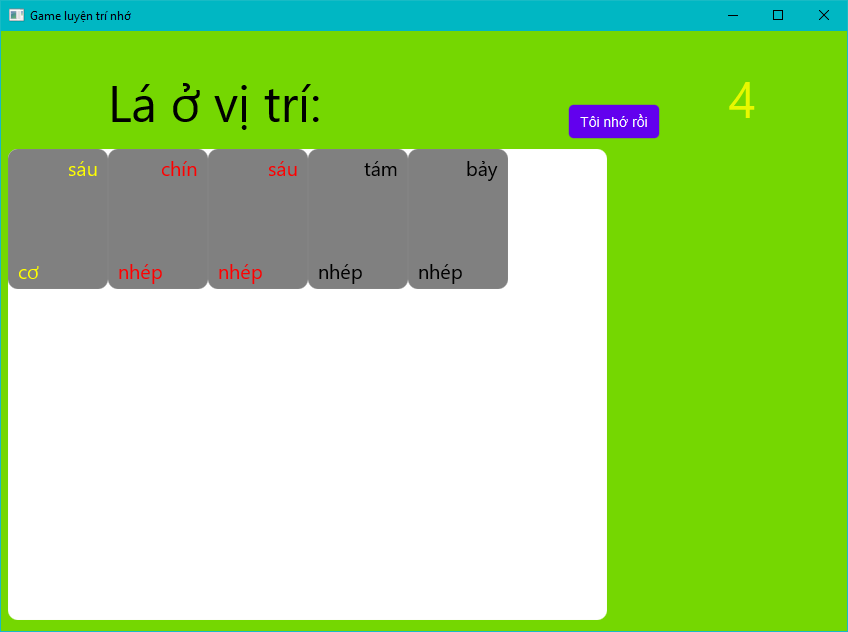
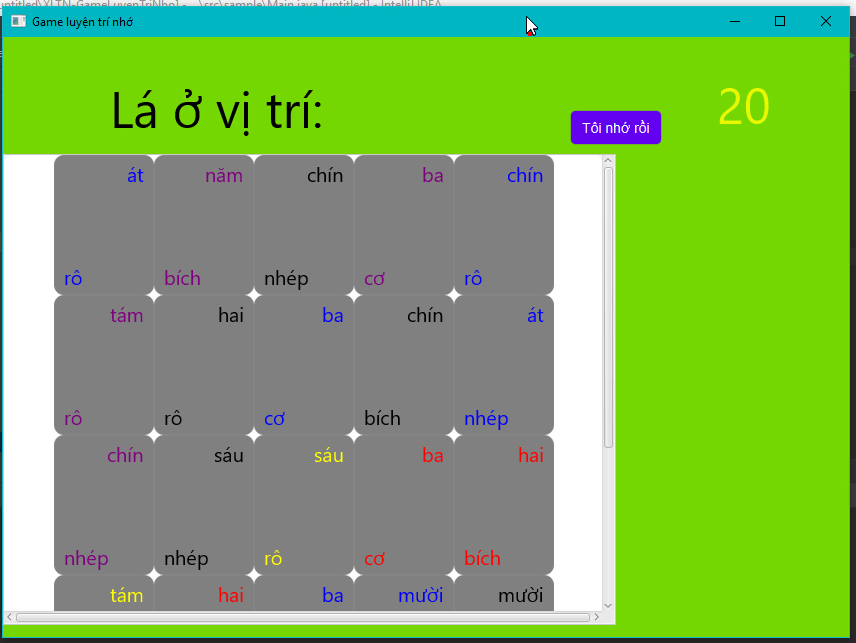
sua giao dien, update hinh anh minh hoa
update hinh anh minh hoa trong /doc
cac la bai show o trong scrollPane de co the hien thi duoc nhieu la bai khi keo xuong duoi

diff --git a/src/sample/Main.java b/src/sample/Main.java
@@ -35,16 +35,19 @@ public class Main extends Application {
     private Text dunghaysai;
     @FXML
     private Pane answerPane;
-
     @FXML
     private Button exitButton;
 
+    CardList cardList = new CardList();
+    int score = 20;
+    ArrayList<Integer> arr = new ArrayList<Integer>();
+    String playerAnswer;
 
     // khoi tao cho game
     @FXML
     void initialize(){
         answerPane.setVisible(false);
-        showScore.setText("0");
+        showScore.setText(score +"");
         dunghaysai.setText("");
         exitButton.setVisible(false);
         cardList.generateCardList(score+1);
@@ -55,10 +58,6 @@ public class Main extends Application {
         Collections.shuffle(arr);
     }
 
-    CardList cardList = new CardList();
-    int score = 0;
-    ArrayList<Integer> arr = new ArrayList<Integer>();
-    String playerAnswer;
 
     /**
      * bat/tat mic de nhan dang tieng noi
